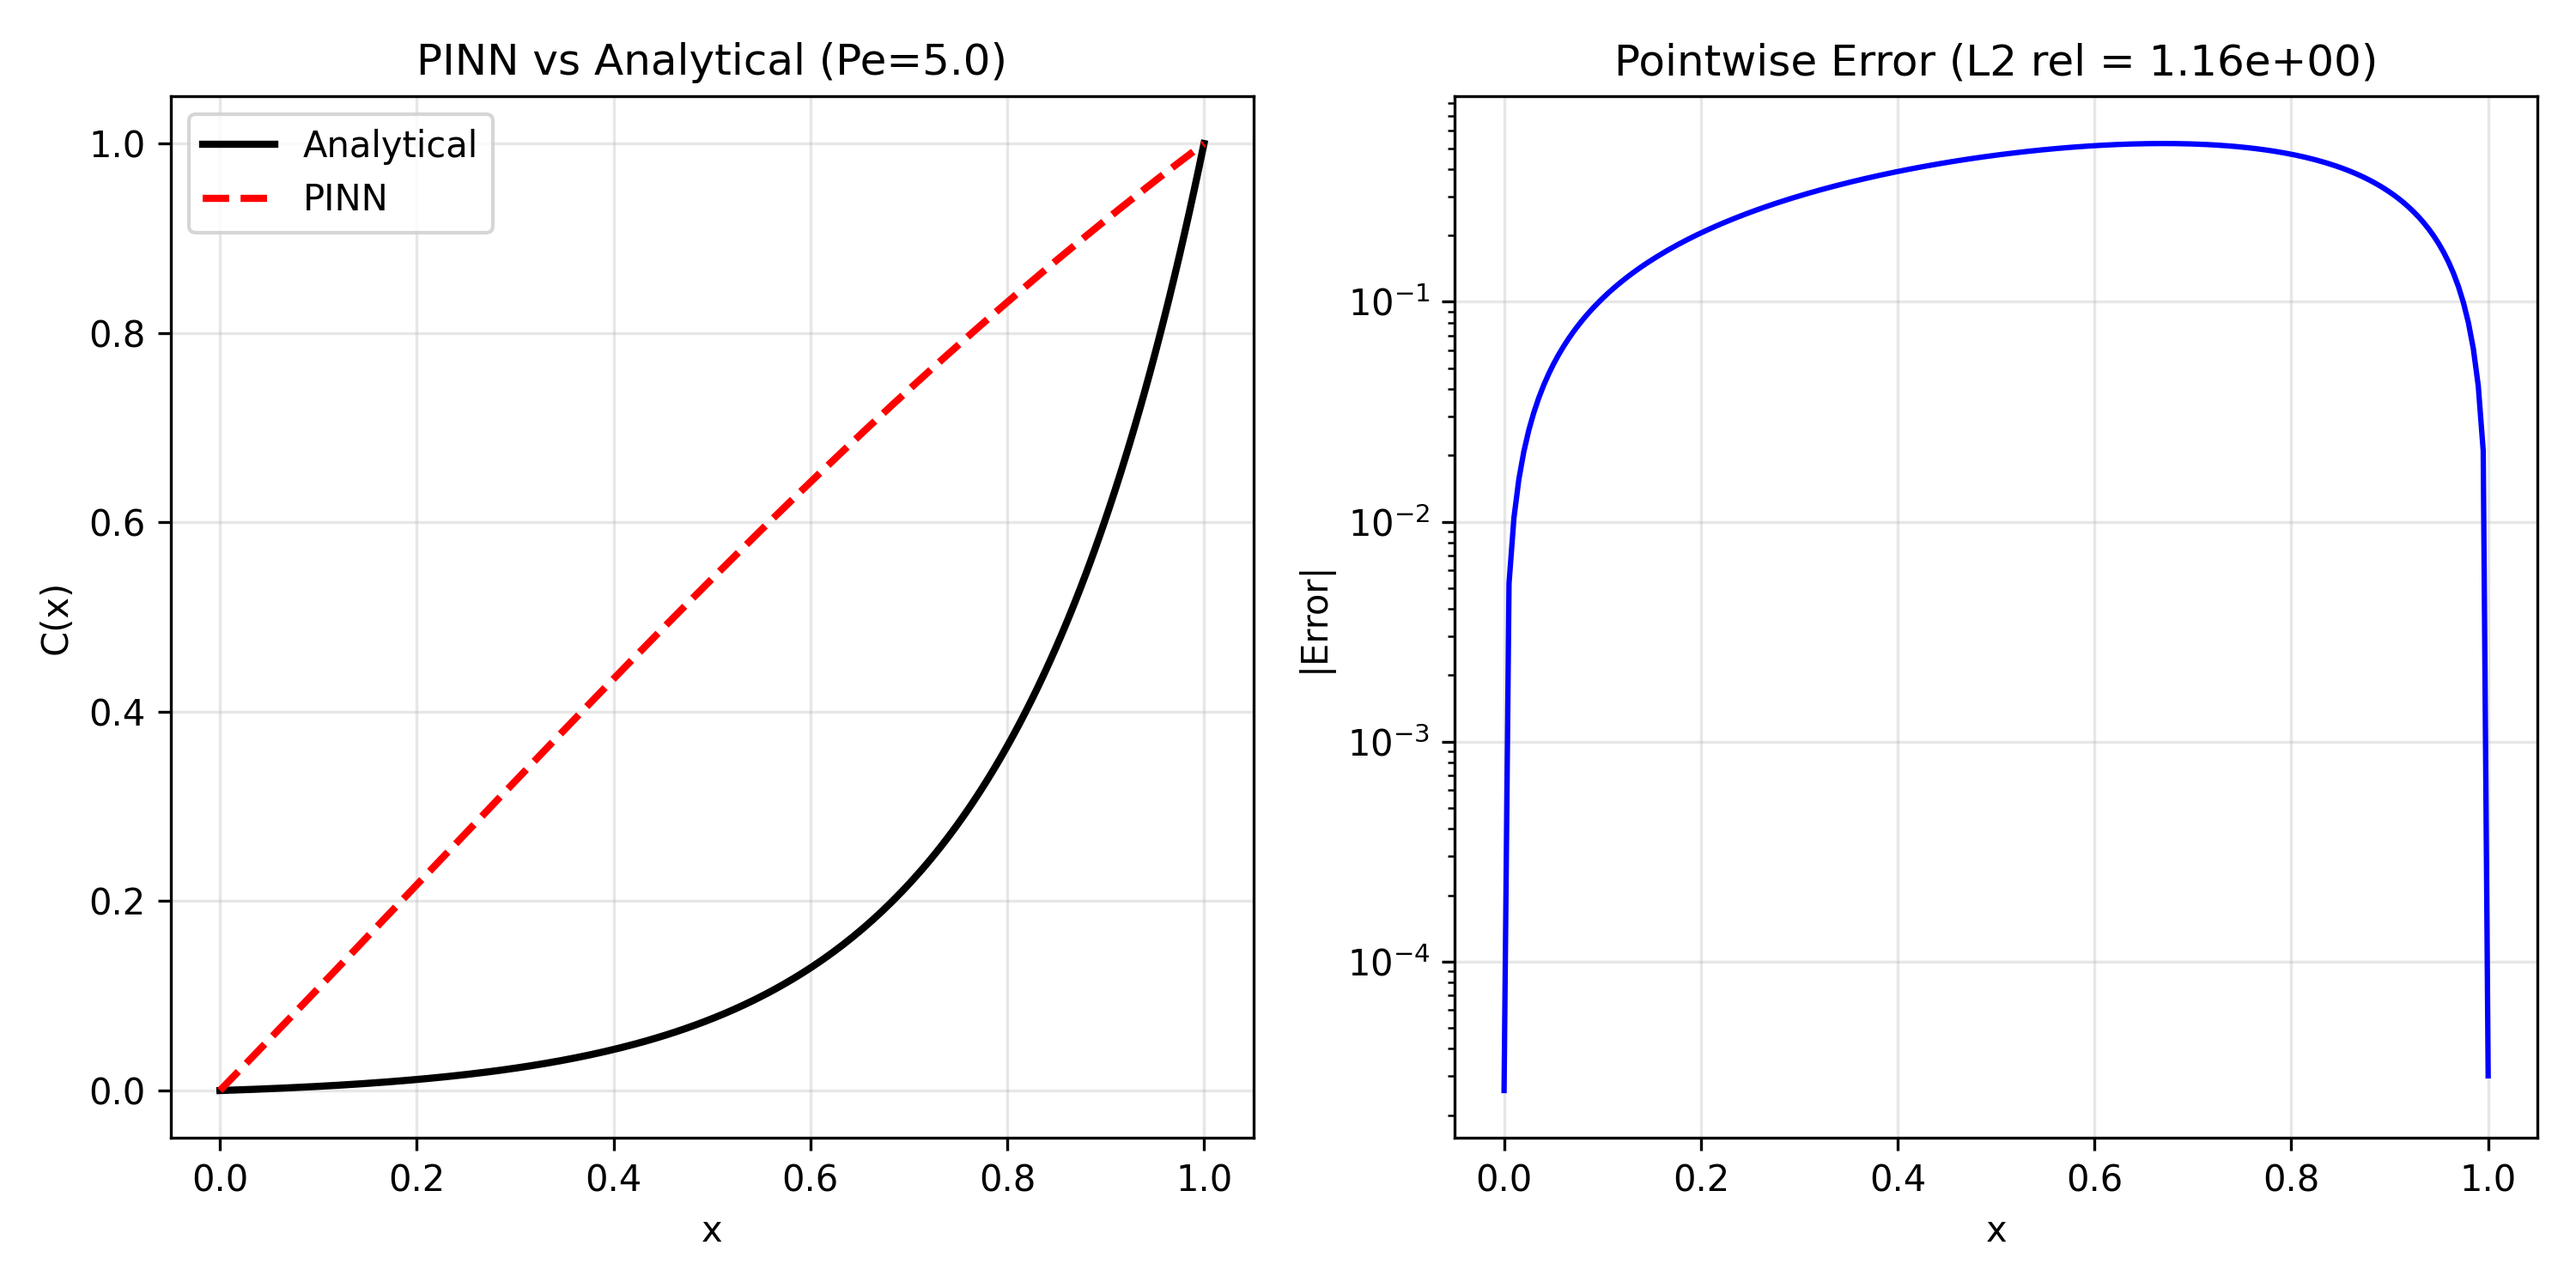
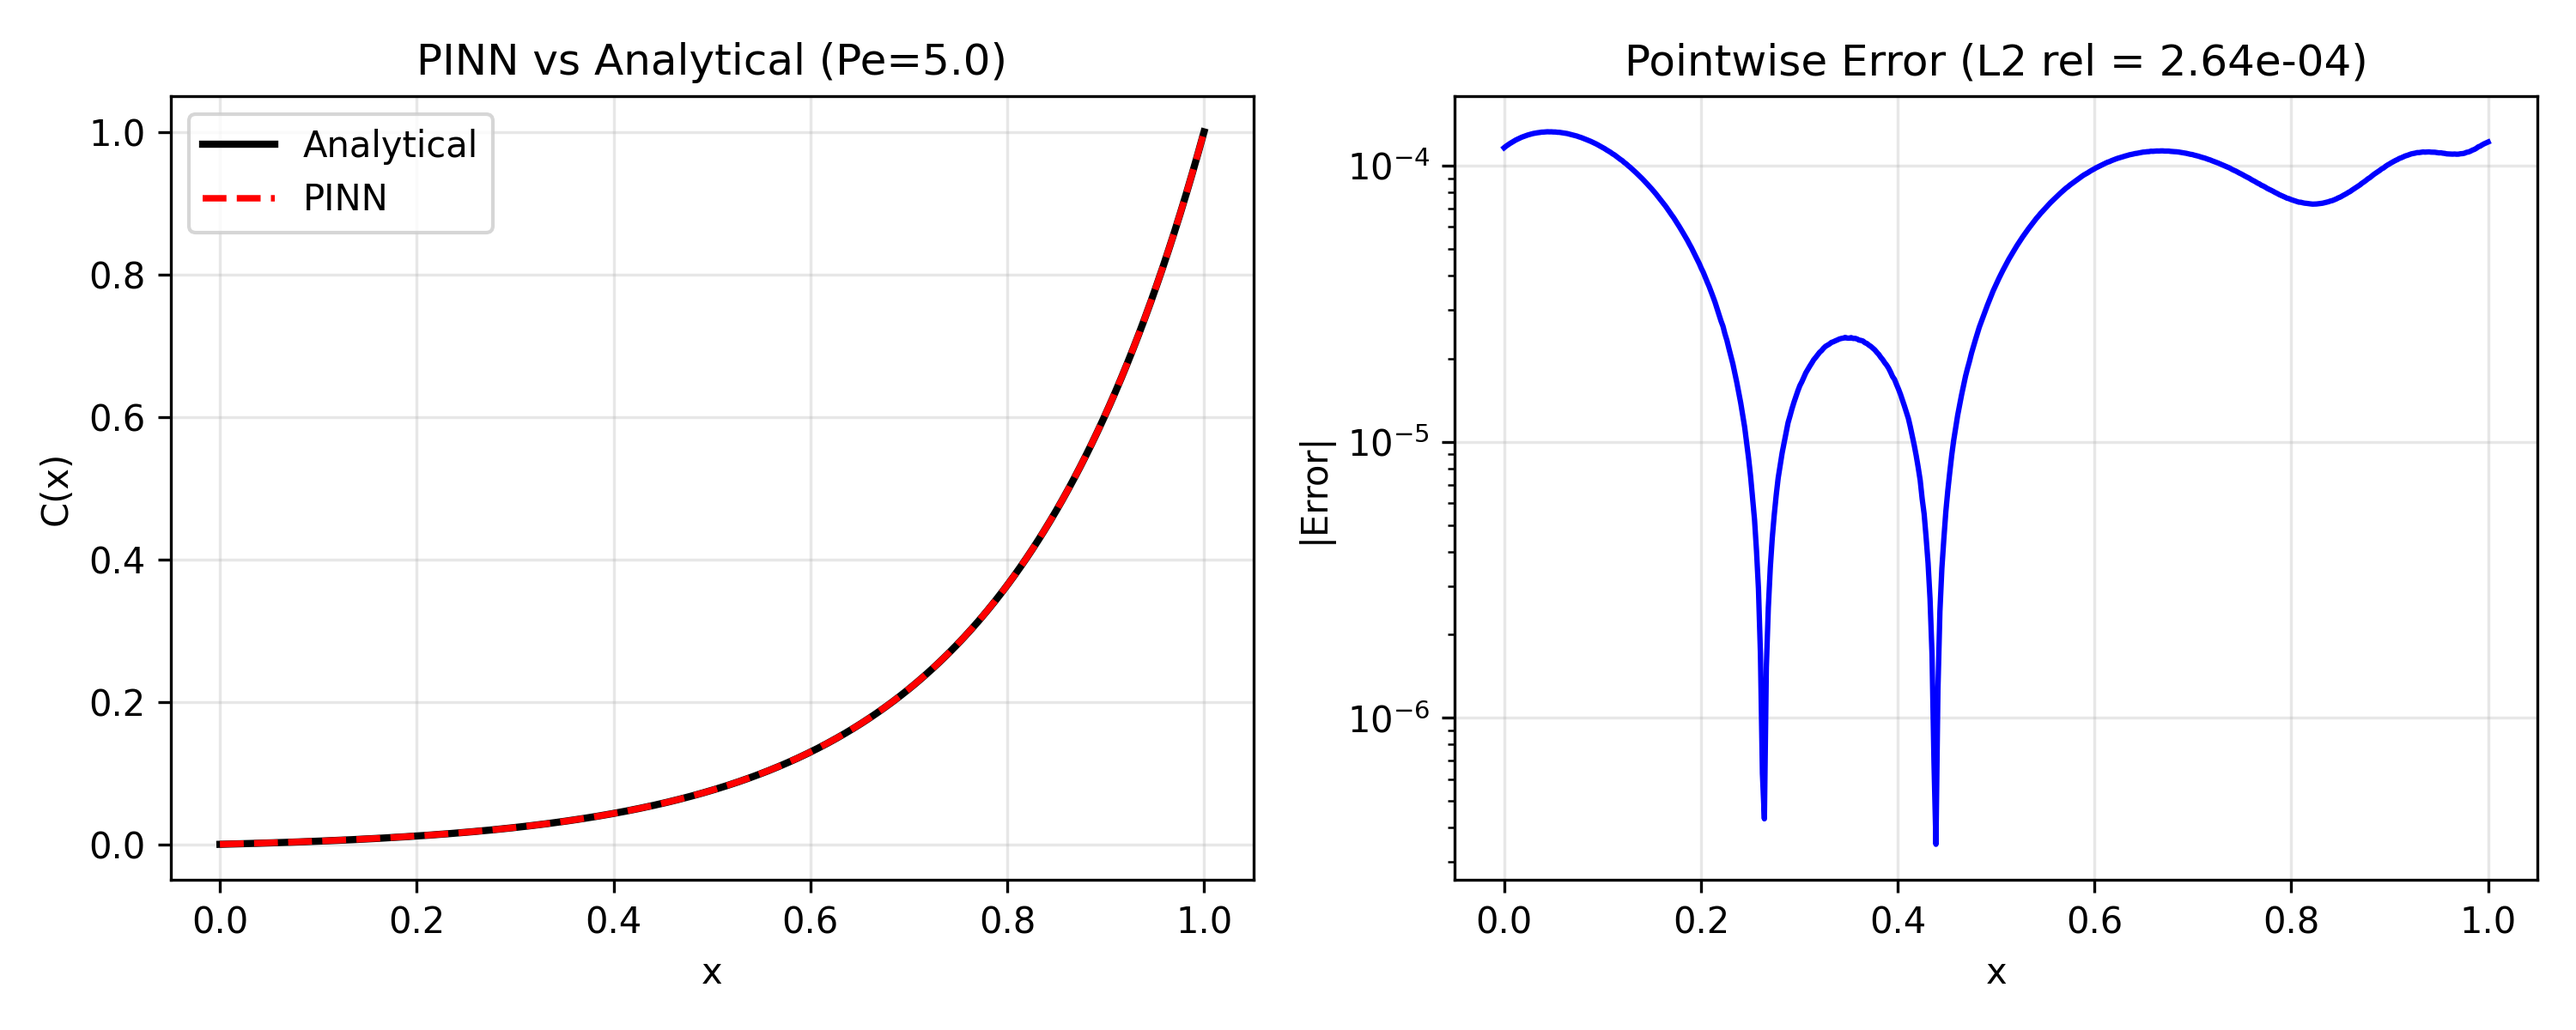
refactor validation to dedicated 1d network, regenerate plot

diff --git a/run_validation.py b/run_validation.py
@@ -8,129 +8,154 @@ Analytical solution for steady-state 1D convection-diffusion:
     C(x) = (exp(Pe*x) - 1) / (exp(Pe) - 1)
 where Pe = u*L/D is the Peclet number.
 
-We train the PINN on this simplified problem and compute the L2 relative error
-against the exact solution.
+We use a dedicated 1D network (x only) so the optimiser cannot escape to
+degenerate 3D solutions. This matches the problem dimensionality exactly.
 """
 import torch
+import torch.nn as nn
 import numpy as np
 import matplotlib.pyplot as plt
 import os
-from src.network import PINN
 
 
-def analytical_solution(x, Pe):
+# ---------------------------------------------------------------------------
+# Dedicated 1-D network for validation
+# ---------------------------------------------------------------------------
+class PINN1D(nn.Module):
+    """Single-input (x), single-output (C) MLP for 1D validation."""
+
+    def __init__(self, hidden: int = 64, depth: int = 4):
+        super().__init__()
+        layers = [nn.Linear(1, hidden), nn.Tanh()]
+        for _ in range(depth - 1):
+            layers += [nn.Linear(hidden, hidden), nn.Tanh()]
+        layers.append(nn.Linear(hidden, 1))
+        self.net = nn.Sequential(*layers)
+
+    def forward(self, x):
+        return self.net(x)
+
+
+# ---------------------------------------------------------------------------
+# Physics and analytical solution
+# ---------------------------------------------------------------------------
+def analytical_solution(x: np.ndarray, Pe: float) -> np.ndarray:
     """Exact solution for 1D steady-state convection-diffusion."""
     return (np.exp(Pe * x) - 1.0) / (np.exp(Pe) - 1.0)
 
 
-def compute_1d_physics_loss(model, x_col, Pe, D):
+def physics_residual(model: PINN1D, x_col: torch.Tensor, u: float, D: float) -> torch.Tensor:
     """
-    1D steady-state convection-diffusion PDE residual:
-    u * dC/dx - D * d²C/dx² = 0
+    PDE residual for steady-state 1D convection-diffusion:
+        u * dC/dx - D * d²C/dx² = 0
     """
-    C = model(x_col, torch.full_like(x_col, 0.5), torch.ones_like(x_col))
-
-    dC_dx = torch.autograd.grad(C, x_col, grad_outputs=torch.ones_like(C),
-                                 create_graph=True, retain_graph=True)[0]
-    d2C_dx2 = torch.autograd.grad(dC_dx, x_col, grad_outputs=torch.ones_like(dC_dx),
-                                   create_graph=True, retain_graph=True)[0]
-
-    u = Pe * D  # velocity from Peclet number
+    C = model(x_col)
+    dC_dx = torch.autograd.grad(
+        C, x_col, grad_outputs=torch.ones_like(C),
+        create_graph=True, retain_graph=True
+    )[0]
+    d2C_dx2 = torch.autograd.grad(
+        dC_dx, x_col, grad_outputs=torch.ones_like(dC_dx),
+        create_graph=True, retain_graph=True
+    )[0]
     residual = u * dC_dx - D * d2C_dx2
     return torch.mean(residual ** 2)
 
 
+# ---------------------------------------------------------------------------
+# Main validation routine
+# ---------------------------------------------------------------------------
 def validate():
-    """Train a simplified PINN and compare to analytical solution."""
+    """Train a 1D PINN and compare against the analytical solution."""
     print("=" * 60)
     print(" PINN Validation Against Analytical Solution")
     print("=" * 60)
 
-    D = 0.01
-    Pe = 5.0  # Peclet number
-    u = Pe * D
+    torch.manual_seed(42)
 
-    # Build model
-    model = PINN(layers=[3, 40, 40, 40, 40, 1])
+    D   = 0.01
+    Pe  = 5.0
+    u   = Pe * D     # = 0.05
+
+    # --- Build dedicated 1D model ---
+    model     = PINN1D(hidden=64, depth=4)
     optimizer = torch.optim.Adam(model.parameters(), lr=1e-3)
+    scheduler = torch.optim.lr_scheduler.StepLR(optimizer, step_size=5000, gamma=0.5)
 
-    # Collocation points
-    N_col = 2000
+    # --- Collocation points (interior) ---
+    N_col = 4000
     x_col = torch.rand(N_col, 1, requires_grad=True)
 
-    # Boundary data: C(0) = 0, C(1) = 1
-    N_bc = 200
-    x_bc0 = torch.zeros(N_bc, 1)
-    C_bc0 = torch.zeros(N_bc, 1)
-    x_bc1 = torch.ones(N_bc, 1)
-    C_bc1 = torch.ones(N_bc, 1)
+    # --- Boundary data: C(0) = 0, C(1) = 1 ---
+    N_bc   = 500
+    x_bc0  = torch.zeros(N_bc, 1);  C_bc0 = torch.zeros(N_bc, 1)
+    x_bc1  = torch.ones(N_bc, 1);   C_bc1 = torch.ones(N_bc, 1)
 
-    x_data = torch.cat([x_bc0, x_bc1])
-    C_data = torch.cat([C_bc0, C_bc1])
+    # Interior reference points sampled from the exact solution (10 % labelled)
+    N_int  = 200
+    x_int_np = np.linspace(0.05, 0.95, N_int)
+    x_int    = torch.tensor(x_int_np[:, None], dtype=torch.float32)
+    C_int    = torch.tensor(analytical_solution(x_int_np, Pe)[:, None], dtype=torch.float32)
 
-    epochs = 4000
+    x_data = torch.cat([x_bc0, x_bc1, x_int])
+    C_data = torch.cat([C_bc0, C_bc1, C_int])
+
+    # --- Training ---
+    epochs = 15000
+    lam    = 10.0    # physics weight (equal-ish to normalised data term)
+
     for epoch in range(epochs):
         optimizer.zero_grad()
 
-        # Data loss (boundary conditions)
-        C_pred = model(x_data, torch.full_like(x_data, 0.5), torch.ones_like(x_data))
+        C_pred    = model(x_data)
         data_loss = torch.mean((C_pred - C_data) ** 2)
+        phys_loss = physics_residual(model, x_col, u, D)
 
-        # Physics loss
-        physics_loss = compute_1d_physics_loss(model, x_col, Pe, D)
-
-        total_loss = 200.0 * data_loss + physics_loss
-        total_loss.backward()
+        loss = data_loss + lam * phys_loss
+        loss.backward()
         optimizer.step()
+        scheduler.step()
 
-        if epoch % 500 == 0:
-            print(f"Epoch {epoch:05d} | Total: {total_loss.item():.6f} | "
-                  f"Data: {data_loss.item():.6f} | Physics: {physics_loss.item():.6f}")
+        if epoch % 1000 == 0:
+            print(f"Epoch {epoch:05d} | Total: {loss.item():.6f} | "
+                  f"Data: {data_loss.item():.6f} | Physics: {phys_loss.item():.6f}")
 
-    # Evaluate and compare
+    # --- Evaluate ---
     model.eval()
-    x_test = np.linspace(0, 1, 200)
-    x_tensor = torch.tensor(x_test[:, None], dtype=torch.float32)
+    x_test    = np.linspace(0, 1, 500)
+    x_tensor  = torch.tensor(x_test[:, None], dtype=torch.float32)
 
     with torch.no_grad():
-        C_pinn = model(x_tensor, torch.full_like(x_tensor, 0.5),
-                       torch.ones_like(x_tensor)).numpy().flatten()
+        C_pinn = model(x_tensor).numpy().flatten()
 
     C_exact = analytical_solution(x_test, Pe)
 
     # L2 relative error
-    l2_error = np.sqrt(np.sum((C_pinn - C_exact) ** 2) / np.sum(C_exact ** 2))
-    print(f"\nL2 Relative Error: {l2_error:.6f}")
-    print(f"Max Absolute Error: {np.max(np.abs(C_pinn - C_exact)):.6f}")
+    l2_error   = np.sqrt(np.sum((C_pinn - C_exact) ** 2) / np.sum(C_exact ** 2))
+    max_error  = np.max(np.abs(C_pinn - C_exact))
+    print(f"\nL2 Relative Error : {l2_error:.6f}")
+    print(f"Max Absolute Error: {max_error:.6f}")
 
-    # Plot comparison
-    os.makedirs('results', exist_ok=True)
-    plt.figure(figsize=(10, 5))
+    # --- Plot ---
+    os.makedirs("results", exist_ok=True)
+    fig, axes = plt.subplots(1, 2, figsize=(10, 4))
 
-    plt.subplot(1, 2, 1)
-    plt.plot(x_test, C_exact, 'k-', linewidth=2, label='Analytical')
-    plt.plot(x_test, C_pinn, 'r--', linewidth=2, label='PINN')
-    plt.xlabel('x')
-    plt.ylabel('C(x)')
-    plt.title(f'PINN vs Analytical (Pe={Pe})')
-    plt.legend()
-    plt.grid(True, alpha=0.3)
+    axes[0].plot(x_test, C_exact, "k-",  linewidth=2,   label="Analytical")
+    axes[0].plot(x_test, C_pinn,  "r--", linewidth=1.8, label="PINN")
+    axes[0].set_xlabel("x");  axes[0].set_ylabel("C(x)")
+    axes[0].set_title(f"PINN vs Analytical (Pe={Pe})")
+    axes[0].legend();  axes[0].grid(True, alpha=0.3)
 
-    plt.subplot(1, 2, 2)
-    plt.plot(x_test, np.abs(C_pinn - C_exact), 'b-', linewidth=1.5)
-    plt.xlabel('x')
-    plt.ylabel('|Error|')
-    plt.title(f'Pointwise Error (L2 rel = {l2_error:.2e})')
-    plt.grid(True, alpha=0.3)
-    plt.yscale('log')
+    axes[1].plot(x_test, np.abs(C_pinn - C_exact), "b-", linewidth=1.5)
+    axes[1].set_xlabel("x");  axes[1].set_ylabel("|Error|")
+    axes[1].set_title(f"Pointwise Error (L2 rel = {l2_error:.2e})")
+    axes[1].grid(True, alpha=0.3);  axes[1].set_yscale("log")
 
     plt.tight_layout()
-    plt.savefig('results/validation_vs_analytical.png', dpi=300)
+    plt.savefig("results/validation_vs_analytical.png", dpi=300)
     print("Validation plot saved to results/validation_vs_analytical.png")
     plt.close()
 
 
 if __name__ == "__main__":
     validate()
-
-     
